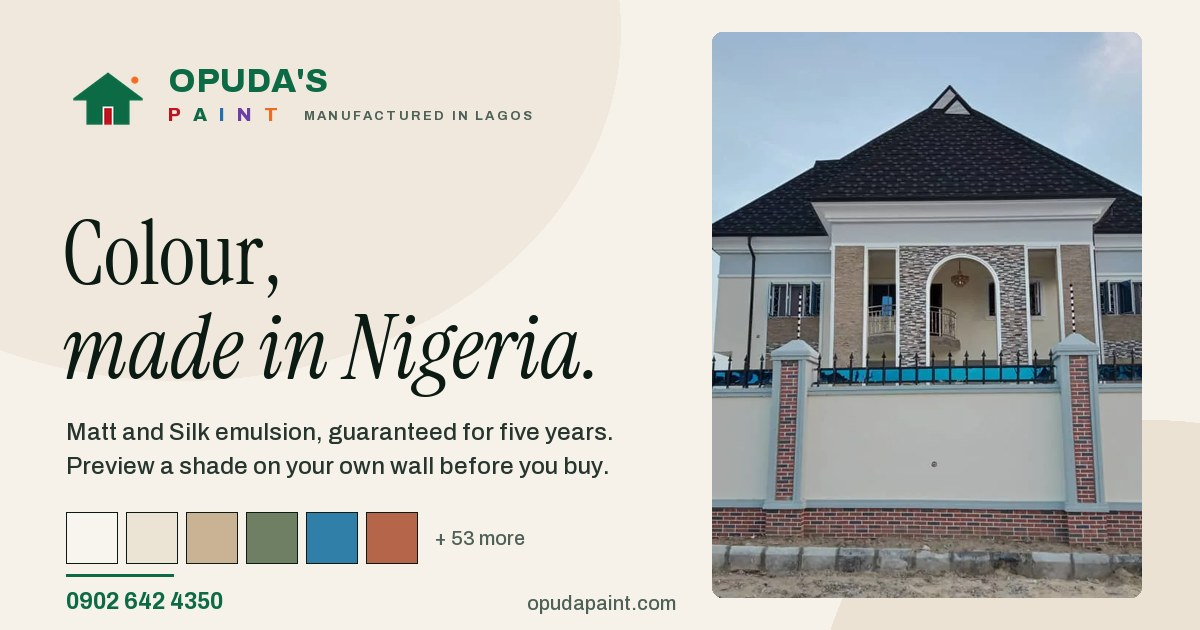
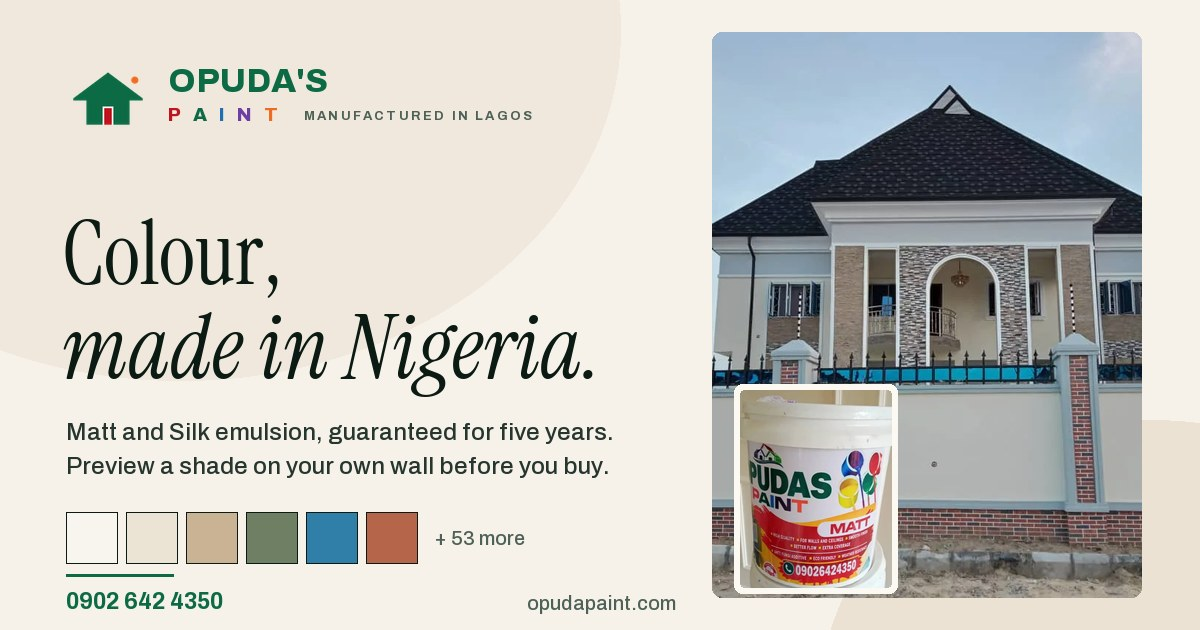
brand: draw the identity from the pail label
Three devices, all redrawn from the only printed artwork the company has:

- PaintSwash, the crimson stroke from the lower half of the bucket, used as the
  hero underline and once in the footer instead of a generic highlight block
- GuaranteeSeal, the circular badge as a vector: house mark, 5 YEARS, a sweep
  inside the ring, and only the label's own wording
- PlankWall, the cream board backdrop every pail is photographed against,
  rebuilt in CSS so it costs no request; it grounds the product pages

The three appear on the home page, the product range header, each product page
(the guarantee is now a badge, not a line of text) and in the design system,
which documents them so they cannot drift.

The social card now carries the pail, cropped to the label, in front of the
villa photograph — the card finally shows the product being sold.

Changed region(s): [[0.5858, 0.6032, 0.7708, 0.9651]]

diff --git a/app/src/components/brand/Devices.tsx b/app/src/components/brand/Devices.tsx
@@ -1,0 +1,172 @@
+import { useId, type CSSProperties, type ReactNode } from 'react'
+import { cn } from '../../lib/cn'
+
+/**
+ * The three devices the whole identity is built from.
+ *
+ * All three come off the pail label, which is the only piece of artwork the
+ * company actually printed:
+ *
+ *   · the crimson paint swash that sweeps across the lower half of the bucket
+ *   · the circular "GUARANTEED 5 YEARS" seal
+ *   · the pale plank wall the pails are photographed against
+ *
+ * They are drawn as vectors rather than cropped from the label, so they stay
+ * sharp at any size and tint to the current text colour. Nothing here invents a
+ * claim — the seal only says what the label says.
+ */
+
+/** The crimson brush sweep. Used as an underline, never as a container. */
+export function PaintSwash({
+  className,
+  tone = 'crimson',
+  flip = false,
+}: {
+  className?: string
+  tone?: 'crimson' | 'green' | 'gold' | 'paper'
+  flip?: boolean
+}) {
+  const id = useId().replace(/:/g, '')
+  const tones = {
+    crimson: ['#C1121F', '#8E0D16'],
+    green: ['#0C6B45', '#07452D'],
+    gold: ['#DFAE52', '#A97A22'],
+    paper: ['#FCF9F3', '#E2D6C3'],
+  } as const
+  const [light, dark] = tones[tone]
+
+  return (
+    <svg
+      aria-hidden
+      viewBox="0 0 320 48"
+      preserveAspectRatio="none"
+      className={cn('pointer-events-none', className)}
+      style={flip ? { transform: 'scaleY(-1)' } : undefined}
+    >
+      <defs>
+        <linearGradient id={`swash-${id}`} x1="0" y1="0" x2="0.15" y2="1">
+          <stop offset="0" stopColor={light} />
+          <stop offset="1" stopColor={dark} />
+        </linearGradient>
+      </defs>
+
+      {/* the body of the stroke: a loaded brush pulling left to right */}
+      <path
+        d="M2 33.6C46 24.4 92 18.5 158 15.1c56-2.9 110 0 160 8l-1.4 8.1c-54-6.6-104-3.8-160-0.6-60 3.4-108 3.3-152 9.6Z"
+        fill={`url(#swash-${id})`}
+      />
+      {/* bristle streaks just outside the body — what makes it read as paint */}
+      <path d="M14 42.4c58-5.1 128-8.2 198-9.7" stroke={light} strokeWidth="1.5" opacity="0.45" strokeLinecap="round" fill="none" />
+      <path d="M226 22.6c26 .8 52 2.3 76 4.6" stroke={light} strokeWidth="1.3" opacity="0.35" strokeLinecap="round" fill="none" />
+      <path d="M38 25.2c40-5.4 92-8.9 148-9.6" stroke="#FFFFFF" strokeWidth="1.1" opacity="0.22" strokeLinecap="round" fill="none" />
+      {/* two dry spots, because a brush never lays an even film */}
+      <ellipse cx="96" cy="27.4" rx="3.4" ry="1.1" fill="#FCF9F3" opacity="0.28" />
+      <ellipse cx="238" cy="25.6" rx="2.6" ry="0.9" fill="#FCF9F3" opacity="0.22" />
+    </svg>
+  )
+}
+
+/** The guarantee seal, redrawn from the label. */
+export function GuaranteeSeal({
+  className,
+  label = 'Guaranteed five years on Matt and Silk',
+}: {
+  className?: string
+  label?: string
+}) {
+  const id = useId().replace(/:/g, '')
+  return (
+    <div className={cn('relative aspect-square', className)}>
+      <svg viewBox="0 0 120 120" className="size-full" role="img" aria-label={label}>
+        <defs>
+          <path id={`seal-top-${id}`} d="M60,60 m-43,0 a43,43 0 1,1 86,0" />
+        </defs>
+
+        <circle cx="60" cy="60" r="58" fill="#FCF9F3" />
+        <circle cx="60" cy="60" r="58" fill="none" stroke="#0C6B45" strokeWidth="2.4" />
+        <circle cx="60" cy="60" r="52.5" fill="none" stroke="#0C6B45" strokeWidth="0.8" opacity="0.45" />
+
+        {/* the label's wrap-around claim, set on the top arc only: a second line
+            at the bottom would collide with the brush stroke */}
+        <text
+          fill="#0B1A13"
+          fontFamily="Archivo Variable, ui-sans-serif, sans-serif"
+          fontWeight="800"
+          fontSize="8"
+          letterSpacing="2.3"
+        >
+          <textPath href={`#seal-top-${id}`} startOffset="50%" textAnchor="middle">
+            GUARANTEED
+          </textPath>
+        </text>
+
+        <g transform="translate(51.6 31) scale(0.35)" fill="#0C6B45">
+          <path d="M24 2.4 45 16.2v3.2L24 5.8 3 19.4v-3.2L24 2.4Z" />
+          <path d="M8.6 15.8 24 5.9l15.4 9.9v17.4c0 .9-.7 1.6-1.6 1.6H10.2c-.9 0-1.6-.7-1.6-1.6V15.8Z" />
+          <path d="M21.2 24.4h5.6v10.4h-5.6z" fill="#C1121F" />
+        </g>
+
+        <text
+          x="60"
+          y="71"
+          textAnchor="middle"
+          fill="#0B1A13"
+          fontFamily="Instrument Serif, Georgia, serif"
+          fontSize="27"
+        >
+          5
+        </text>
+        <text
+          x="60"
+          y="80"
+          textAnchor="middle"
+          fill="#4D6157"
+          fontFamily="Archivo Variable, ui-sans-serif, sans-serif"
+          fontWeight="800"
+          fontSize="5.4"
+          letterSpacing="1.4"
+        >
+          YEARS
+        </text>
+
+        {/* the crimson sweep, held inside the ring so the badge reads at 64px */}
+        <path d="M31 92.5c18-5.4 44-5.8 58-3" fill="none" stroke="#C1121F" strokeWidth="5.2" strokeLinecap="round" />
+        <path d="M40 88.2c14-2.9 30-3.4 42-2.1" fill="none" stroke="#C1121F" strokeWidth="1.4" strokeLinecap="round" opacity="0.55" />
+      </svg>
+    </div>
+  )
+}
+
+/**
+ * The cream plank wall from the label photography.
+ *
+ * Pure CSS: one board-width gradient tiled horizontally for the seams, and a
+ * broad top-down light so it never looks like a repeating pattern. The existing
+ * `grain` utility adds the plaster speckle on top.
+ */
+export function PlankWall({
+  className,
+  children,
+  style,
+}: {
+  className?: string
+  children?: ReactNode
+  style?: CSSProperties
+}) {
+  return (
+    <div
+      className={cn('grain relative isolate overflow-hidden', className)}
+      style={{
+        backgroundColor: '#efe5d4',
+        backgroundImage: [
+          'linear-gradient(90deg, rgba(11,26,19,0.13) 0, rgba(255,255,255,0.5) 2px, rgba(255,255,255,0.12) 40%, rgba(11,26,19,0.05) 92%, rgba(11,26,19,0.16) 100%)',
+          'linear-gradient(180deg, rgba(255,255,255,0.55) 0%, rgba(255,255,255,0.08) 42%, rgba(169,85,60,0.07) 100%)',
+        ].join(','),
+        backgroundSize: '86px 100%, 100% 100%',
+        ...style,
+      }}
+    >
+      {children}
+    </div>
+  )
+}

diff --git a/app/src/routes/StyleGuide.tsx b/app/src/routes/StyleGuide.tsx
@@ -2,6 +2,7 @@ import { usePageMeta } from '../lib/seo'
 import { Badge, Kicker, SectionHead } from '../components/ui/Bits'
 import { Button, ButtonLink } from '../components/ui/Button'
 import { Checkbox, Field, Select, TextInput, Toggle } from '../components/ui/Field'
+import { GuaranteeSeal, PaintSwash, PlankWall } from '../components/brand/Devices'
 import { useState } from 'react'
 
 const COLOUR_TOKENS = [
@@ -167,8 +168,46 @@ export default function StyleGuide() {
           </div>
         </section>
 
+        <section aria-labelledby="devices-title">
+          <SectionHead
+            kicker="04 — Identity"
+            title={<span id="devices-title">Three devices, all from the label</span>}
+            lede="The company has one piece of printed artwork: the pail. Everything decorative on this site is redrawn from it, so the site and the bucket are recognisably the same brand."
+          />
+          <div className="mt-6 grid gap-3 sm:grid-cols-3">
+            <div className="rounded-sm border border-ink/12 bg-paper-2/60 p-4">
+              <PaintSwash className="h-4 w-full" />
+              <p className="mt-4 text-[0.86rem] font-semibold">The brush sweep</p>
+              <p className="mt-1 text-[0.8rem] leading-relaxed text-ink/60">
+                The crimson stroke across the lower half of the pail. Used as an underline on a hero phrase, once in
+                the footer, and nowhere else — a signature loses its meaning when it repeats.
+              </p>
+            </div>
+            <div className="rounded-sm border border-ink/12 bg-paper-2/60 p-4">
+              <GuaranteeSeal className="w-24" />
+              <p className="mt-4 text-[0.86rem] font-semibold">The guarantee seal</p>
+              <p className="mt-1 text-[0.8rem] leading-relaxed text-ink/60">
+                Redrawn as a vector badge so it stays sharp from 64 px to print. It carries only the label&rsquo;s own
+                wording: five years, on Matt and Silk.
+              </p>
+            </div>
+            <div className="rounded-sm border border-ink/12 bg-paper-2/60 p-4">
+              <PlankWall className="grid h-24 place-items-center rounded-[2px]">
+                <span className="rounded-full bg-paper-2/90 px-2.5 py-1 text-[0.62rem] font-bold uppercase tracking-[0.12em] text-ink/70">
+                  Plank wall
+                </span>
+              </PlankWall>
+              <p className="mt-4 text-[0.86rem] font-semibold">The cream plank wall</p>
+              <p className="mt-1 text-[0.8rem] leading-relaxed text-ink/60">
+                The backdrop in every pail photograph, rebuilt in CSS so it costs no image request. It grounds the
+                product pages without becoming a texture across the whole site.
+              </p>
+            </div>
+          </div>
+        </section>
+
         <section aria-labelledby="rules-title">
-          <SectionHead kicker="04 — Rules" title={<span id="rules-title">Non-negotiables</span>} />
+          <SectionHead kicker="05 — Rules" title={<span id="rules-title">Non-negotiables</span>} />
           <ul className="mt-6 grid gap-3 sm:grid-cols-2">
             {[
               ['Colour is never the only signal', 'Every swatch shows its name and code. State changes use text and iconography as well as colour.'],

diff --git a/app/src/routes/Home.tsx b/app/src/routes/Home.tsx
@@ -14,6 +14,7 @@ import {
 } from 'lucide-react'
 import { usePageMeta, ORGANISATION_SCHEMA } from '../lib/seo'
 import { SmartImage } from '../components/media/SmartImage'
+import { GuaranteeSeal, PaintSwash } from '../components/brand/Devices'
 import { Reveal } from '../components/motion/Reveal'
 import { ArrowLink, Badge, Kicker, Rule, SectionHead } from '../components/ui/Bits'
 import { ButtonLink } from '../components/ui/Button'
@@ -116,11 +117,7 @@ export default function Home() {
               <br />
               <span className="relative inline-block">
                 <span className="relative z-10 italic">holds its own</span>
-                <span
-                  aria-hidden
-                  className="absolute inset-x-[-2%] bottom-[6%] z-0 h-[26%] -rotate-[0.8deg] bg-green/22"
-                  style={{ clipPath: 'polygon(0 12%, 100% 0, 99% 88%, 1% 100%)' }}
-                />
+                <PaintSwash className="absolute inset-x-[-3%] bottom-[-0.055em] z-0 h-[0.2em] w-[106%] -rotate-[0.5deg]" />
               </span>
               <br />
               in Lagos light.
@@ -212,22 +209,8 @@ export default function Home() {
           </div>
         </div>
 
-        {/* rotating seal */}
-        <div className="pointer-events-none absolute right-4 top-24 hidden lg:block">
-          <div className="relative size-24 animate-[spin-slow_28s_linear_infinite]">
-            <svg viewBox="0 0 100 100" className="size-full">
-              <defs>
-                <path id="sealPath" d="M50,50 m-36,0 a36,36 0 1,1 72,0 a36,36 0 1,1 -72,0" />
-              </defs>
-              <text className="fill-ink/40 text-[7.4px] font-bold uppercase tracking-[0.28em]">
-                <textPath href="#sealPath">Made in Nigeria · 5-year guarantee · </textPath>
-              </text>
-            </svg>
-          </div>
-          <div className="absolute inset-0 grid place-items-center">
-            <ShieldCheck className="size-6 text-green/70" aria-hidden />
-          </div>
-        </div>
+        {/* the guarantee seal, straight off the pail */}
+        <GuaranteeSeal className="pointer-events-none absolute right-3 top-16 hidden w-[7.5rem] drop-shadow-[0_18px_30px_rgba(11,26,19,0.16)] lg:block xl:right-8 xl:w-[8.5rem]" />
       </section>
 
       {/* ============================================================ RIBBON */}

diff --git a/app/src/routes/ProductDetail.tsx b/app/src/routes/ProductDetail.tsx
@@ -5,6 +5,7 @@ import { usePageMeta } from '../lib/seo'
 import { PRODUCTS, findProduct, FINISH_SHEEN_LABEL } from '../data/products'
 import { COLORS } from '../data/colors'
 import { SmartImage } from '../components/media/SmartImage'
+import { GuaranteeSeal } from '../components/brand/Devices'
 import { Badge, DataRow, ArrowLink } from '../components/ui/Bits'
 import { Button, ButtonLink } from '../components/ui/Button'
 import { ColourCard } from '../components/colour/ColourCard'
@@ -98,6 +99,17 @@ export default function ProductDetail() {
               sizes="(max-width: 1024px) 92vw, 46vw"
               className="rounded-sm"
             />
+            {product.guaranteeYears ? (
+              <div className="mt-4 flex items-center gap-3 rounded-sm border border-ink/12 bg-paper-2/70 p-3">
+                <GuaranteeSeal className="w-16 shrink-0" />
+                <p className="text-[0.76rem] leading-snug text-ink/70">
+                  <span className="block text-[0.64rem] font-bold uppercase tracking-[0.12em] text-green">
+                    {product.guaranteeYears}-year guarantee
+                  </span>
+                  On {product.name}, under the terms printed on the pail. Keep your till slip.
+                </p>
+              </div>
+            ) : null}
             <div className="mt-3 grid grid-cols-3 gap-2">
               {product.gallery.slice(0, 3).map((image) => (
                 <SmartImage key={image} name={image} aspect={1} sizes="15vw" className="rounded-sm" />

diff --git a/app/src/routes/Products.tsx b/app/src/routes/Products.tsx
@@ -4,6 +4,7 @@ import { ArrowRight, Check, Droplet, Layers, ShieldCheck, Timer } from 'lucide-r
 import { usePageMeta } from '../lib/seo'
 import { PRODUCTS, FINISH_SHEEN_LABEL, type Finish, type Surface } from '../data/products'
 import { SmartImage } from '../components/media/SmartImage'
+import { PlankWall } from '../components/brand/Devices'
 import { Badge, Kicker, SectionHead, ArrowLink } from '../components/ui/Bits'
 import { Reveal } from '../components/motion/Reveal'
 import { Pill } from '../components/ui/Bits'
@@ -47,7 +48,9 @@ export default function Products() {
 
   return (
     <>
-      <header className="border-b border-ink/10 bg-paper-2/40">
+      <header className="relative isolate overflow-hidden border-b border-ink/10">
+        {/* the plank wall every pail is photographed against */}
+        <PlankWall className="absolute inset-0 -z-10 opacity-70" />
         <div className="shell py-10 sm:py-14">
           <Kicker className="mb-4">The range</Kicker>
           <div className="grid gap-8 lg:grid-cols-[1.25fr_1fr] lg:items-end">

diff --git a/app/src/components/layout/Footer.tsx b/app/src/components/layout/Footer.tsx
@@ -2,6 +2,7 @@ import { useState } from 'react'
 import { Link } from 'react-router-dom'
 import { ArrowRight, Phone, MessageCircle, Mail, MapPin } from 'lucide-react'
 import { LogoLockup } from '../brand/Logo'
+import { PaintSwash } from '../brand/Devices'
 import { BRAND_PHONE_DISPLAY, BRAND_PHONE_TEL, WHATSAPP_NUMBER } from '../../data/dealers'
 import { useApp } from '../../store/AppStore'
 import { subscribe } from '../../lib/api'
@@ -78,6 +79,8 @@ export function Footer() {
         }}
       />
       <div className="shell relative py-14 sm:py-20">
+        {/* the pail's brush stroke, closing the page the way the label opens */}
+        <PaintSwash className="mb-10 h-3 w-24 opacity-90" />
         <div className="grid gap-12 lg:grid-cols-[1.15fr_2fr]">
           <div>
             <LogoLockup tone="paper" />

diff --git a/tools/build-og.py b/tools/build-og.py
@@ -121,6 +121,16 @@ def main() -> None:
     photo = rounded(photo.crop((left, top, left + target_w, top + target_h)), 10)
     card.paste(photo, (712, 32), photo)
 
+    # The pail, cropped to the label and set into the photograph's lower corner.
+    # The villa shows what the paint is for; the pail shows what is being sold,
+    # and carries the printed guarantee seal that no stock photograph would.
+    pail = Image.open(MEDIA / "product-matt-bucket.webp").convert("RGB").crop((176, 250, 592, 792))
+    pail_w, pail_h = 152, 198
+    pail = pail.resize((pail_w, pail_h), Image.LANCZOS)
+    frame = rounded(Image.new("RGBA", (pail_w + 12, pail_h + 12), (252, 249, 243, 255)), 8)
+    card.paste(frame, (734, 384), frame)
+    card.paste(rounded(pail, 4), (740, 390), rounded(pail, 4))
+
     # Mark + wordmark, set the way the site sets it.
     mark = Image.open(PUBLIC / "brand" / "mark-512.png").convert("RGBA").resize((88, 88), Image.LANCZOS)
     card.paste(mark, (64, 54), mark)

diff --git a/docs/README.md b/docs/README.md
@@ -20,6 +20,7 @@ app/                    React 19 + Vite + Tailwind v4 front end
   scripts/              test runners and content tests (run by `npm test`)
   src/
     components/         UI kit, layout, room visualiser, calculator, colour cards
+      brand/            wordmark, brush sweep, guarantee seal, plank wall
     data/               colours, products, palettes, projects, dealers, guides
     lib/                colour maths, quantity engine, API client, SEO, analytics
     routes/             one module per URL
